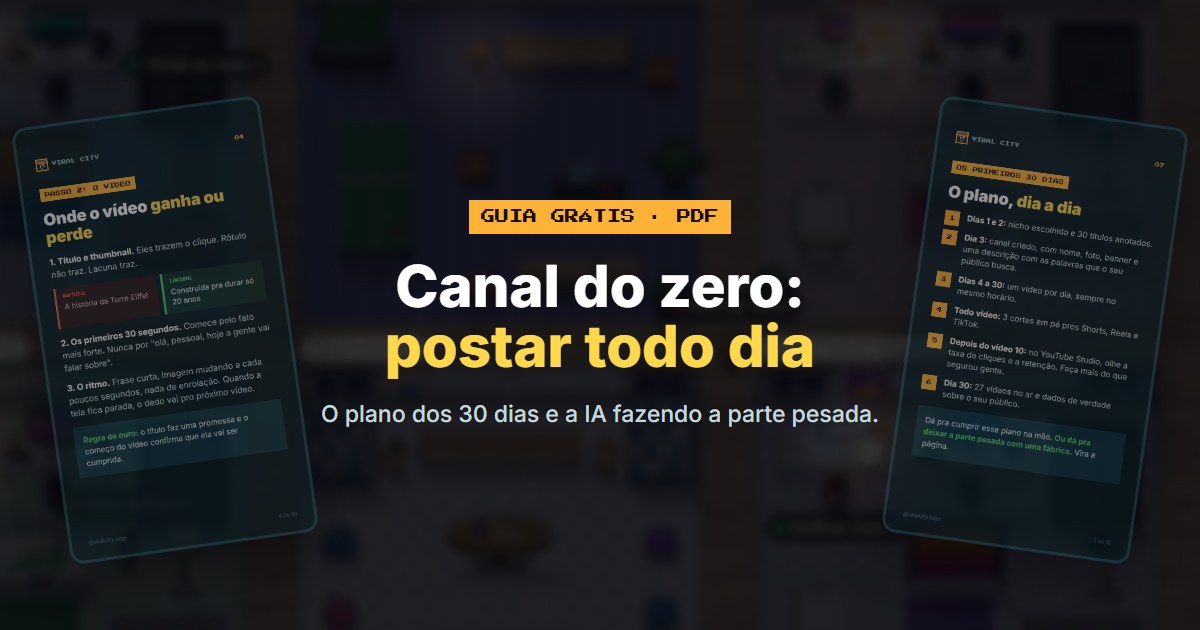
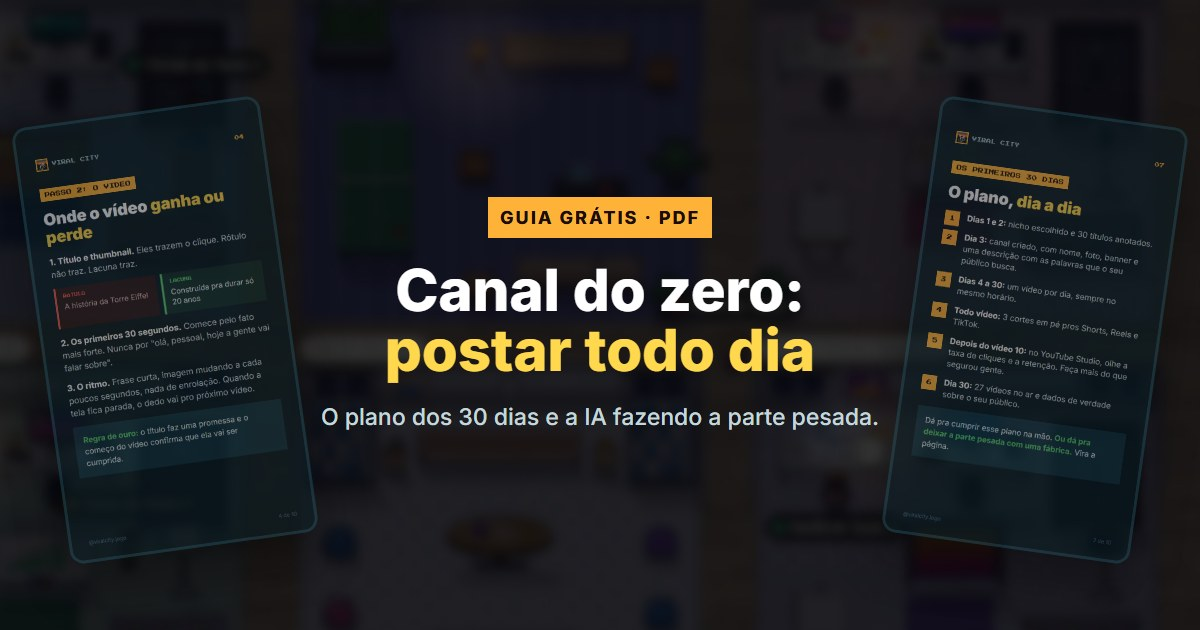
Guia Canal do zero: a frase do presente, o aviso de que é grátis e o botão de baixar medido

Changed region(s): [[0.3083, 0.4222, 0.6783, 0.6032], [0.2467, 0.6333, 0.74, 0.6937], [0.37, 0.3016, 0.6167, 0.3921]]

diff --git a/viralcity/canal-do-zero/index.html b/viralcity/canal-do-zero/index.html
@@ -44,7 +44,8 @@
   .marca img { width: 36px; height: 36px; image-rendering: pixelated; border: 3px solid var(--ambar); }
   .marca span { font-family: var(--pixel); font-size: 13px; color: var(--branco); text-shadow: 3px 3px 0 #000; }
 
-  .selo { align-self: center; font-family: var(--pixel); font-size: 10px; letter-spacing: .04em; padding: 7px 10px; background: var(--ambar); color: #1a0d05; }
+  .presente { margin: 0; padding: 14px 16px; text-align: center; font-size: 16px; line-height: 1.5; color: var(--branco); background: rgba(255, 178, 56, .1); border: 2px dashed var(--ambar); border-radius: 12px; text-wrap: balance; }
+  .selo { align-self: center; font-family: var(--corpo); font-weight: 800; font-size: 13px; letter-spacing: .08em; padding: 7px 10px; background: var(--ambar); color: #1a0d05; }
   h1 { margin: 0; text-align: center; font-size: clamp(30px, 8.4vw, 42px); line-height: 1.08; font-weight: 800; color: var(--branco); text-wrap: balance; letter-spacing: -.01em; }
   h1 em { font-style: normal; color: var(--amarelo); }
   .sub { margin: -8px 0 0; text-align: center; color: var(--texto-suave); font-size: 17px; line-height: 1.55; text-wrap: balance; }
@@ -55,7 +56,7 @@
 
   .botao {
     display: flex; align-items: center; justify-content: center; gap: 12px; min-height: 64px; padding: 14px 18px;
-    font-family: var(--pixel); font-size: 14px; letter-spacing: .03em; color: #1a0d05; text-decoration: none; text-align: center;
+    font-family: var(--corpo); font-weight: 800; font-size: 20px; letter-spacing: .06em; color: #1a0d05; text-decoration: none; text-align: center;
     background: linear-gradient(135deg, var(--laranja), var(--amarelo)); border: 3px solid var(--amarelo); border-radius: 12px;
     box-shadow: 0 5px 0 #8a3a12; transition: transform .15s ease, box-shadow .15s ease;
   }
@@ -82,6 +83,7 @@
 <main>
   <a class="marca" href="https://buildfy.tec.br/viralcity/"><img src="../img/logo.png" alt="" width="36" height="36"><span>VIRAL CITY</span></a>
 
+  <p class="presente">🎁 Vimos que muita gente quer começar um canal novo, então preparamos um presente pra vocês.</p>
   <span class="selo">GUIA GRÁTIS · PDF</span>
   <h1>Canal do zero: <em>postar todo dia</em> sem virar refém da edição</h1>
   <p class="sub">O que trava quase todo canal novo, o plano dos primeiros 30 dias e como colocar a IA pra fazer a parte pesada.</p>
@@ -92,11 +94,11 @@
     <img src="img/pagina-3.jpg" alt="" width="720" height="1280" loading="lazy">
   </div>
 
-  <a class="botao" href="canal-do-zero-viralcity.pdf" download="Canal do zero - Viral City.pdf">
+  <a class="botao" data-medir="baixar_pdf" href="canal-do-zero-viralcity.pdf" download="Canal do zero - Viral City.pdf">
     <svg viewBox="0 0 24 24" fill="none" stroke="currentColor" stroke-width="2.6" stroke-linecap="round" stroke-linejoin="round" aria-hidden="true"><path d="M12 3v12M6 10l6 6 6-6M4 20h16"/></svg>
-    BAIXAR O GUIA
+    BAIXAR GRÁTIS
   </a>
-  <p class="nota">PDF de 11 páginas, 5 MB. Abre no celular. Sem cadastro.</p>
+  <p class="nota"><b style="color:var(--verde)">É grátis.</b> Sem cadastro e sem cartão. PDF de 11 páginas, abre no celular.</p>
 
   <section class="bloco">
     <h2>O QUE TEM DENTRO</h2>
